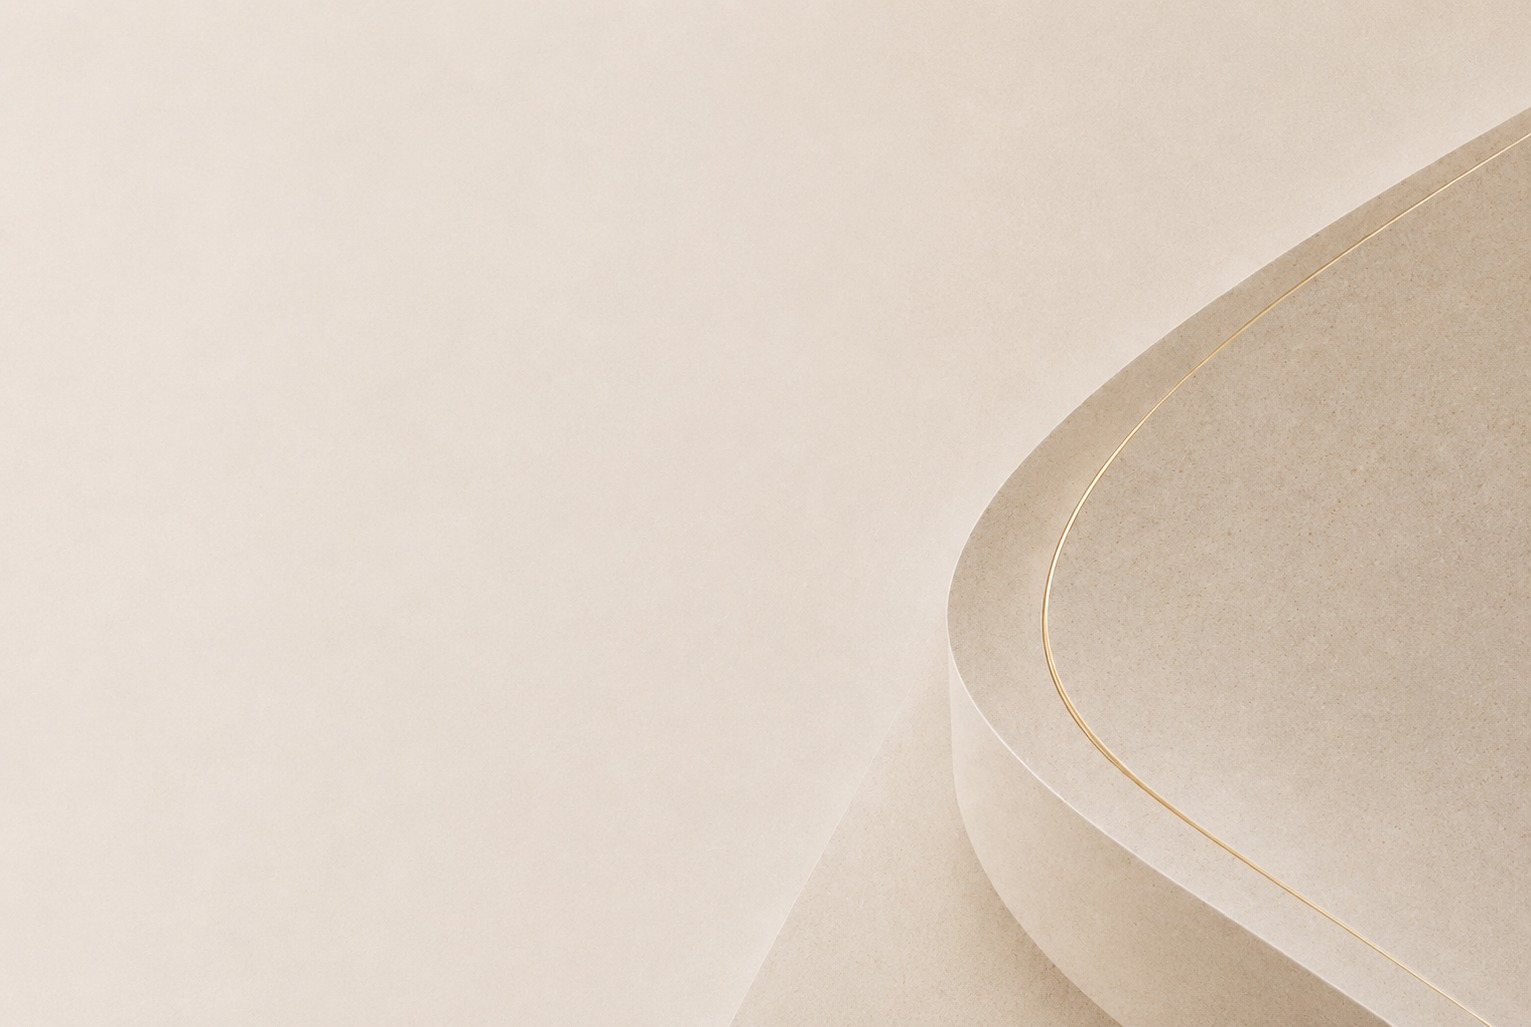
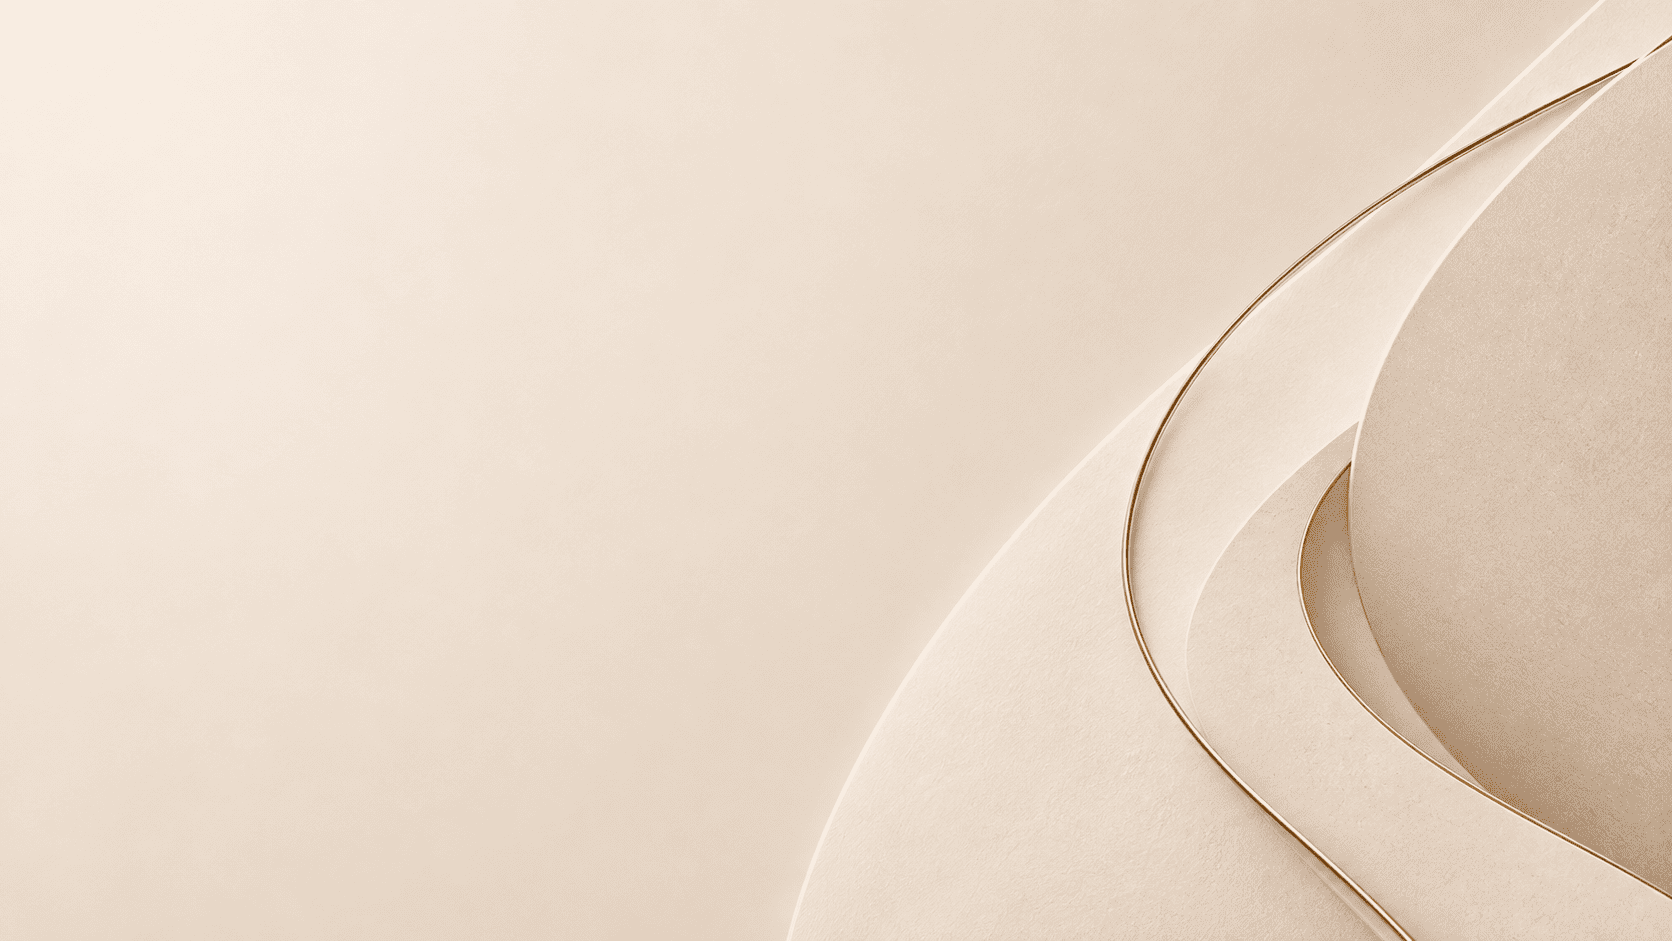
Add new edits addedg now for see more an ghero image of about us 16th itmeadmin update new something in header of book  a table and so many things

diff --git a/public/assets/frontend/css/style.css b/public/assets/frontend/css/style.css
@@ -23,22 +23,25 @@ a { text-decoration: none; color: inherit; }
 .page-transition-overlay { position: fixed; top: 0; left: 0; width: 100%; height: 100%; background-color: var(--bg-fallback); z-index: 9999; opacity: 1; visibility: visible; transition: opacity 0.4s ease-in-out, visibility 0.4s; pointer-events: none; }
 .page-transition-overlay.hidden { opacity: 0; visibility: hidden; }
 
-/* FIX: Page wrapper now just acts as the flex column structural container */
+/* Structural container */
 .page-wrapper { 
     min-height: 100vh; 
     display: flex; 
     flex-direction: column; 
 }
 
-/* FIX: New Hero Wrapper limits the image strictly to the top content, preventing blur/noise */
+/* FIX: High-quality rendering properties added to keep the zoomed background as sharp as the browser allows */
 .hero-wrapper {
     background-size: cover;
     background-position: center;
     background-repeat: no-repeat;
     display: flex;
     flex-direction: column;
-    flex-grow: 1; /* Pushes the status bar and footer down exactly like before */
+    flex-grow: 1; 
     width: 100%;
+    /* Forces browser to prioritize image quality when stretched/zoomed */
+    image-rendering: high-quality;
+    image-rendering: -webkit-optimize-contrast; 
 }
 
 .header { 
@@ -49,7 +52,6 @@ a { text-decoration: none; color: inherit; }
     z-index: 9998;
     transition: background-color 0.3s ease, box-shadow 0.3s ease;
 }
-/* Solid background applied via JS when scrolling to prevent text bleed */
 .header.scrolled {
     background-color: var(--bg-fallback);
     box-shadow: 0 4px 20px rgba(0,0,0,0.05);
@@ -61,16 +63,15 @@ a { text-decoration: none; color: inherit; }
     position: relative; 
     z-index: 2;
 }
-/* Fixed Overlay: Anchored strictly to the logo side, accommodating any monitor width */
 .nav-container::before {
     content: '';
     position: absolute;
-    top: -40px; /* Counteracts header top padding */
-    bottom: -40px; /* Counteracts header bottom padding */
-    left: -100vw; /* Bleeds infinitely to the left */
-    width: calc(100vw + 320px); /* Covers the left bleed + right up to the end of the logo */
+    top: -40px; 
+    bottom: -40px; 
+    left: -100vw; 
+    width: calc(100vw + 320px); 
     background: linear-gradient(90deg, rgba(232, 226, 213, 0.96) 0%, rgba(232, 226, 213, 0.96) calc(100% - 120px), rgba(232, 226, 213, 0) 100%);
-    z-index: -1; /* Keeps it strictly behind the navigation elements */
+    z-index: -1; 
     pointer-events: none;
 }
 .logo { position: relative; z-index: 10; }
@@ -101,7 +102,6 @@ h1 .gold-text { color: var(--gold); }
 .btn-primary { background-color: var(--gold); color: #ffffff; border: 1px solid var(--gold); }
 .btn-secondary { background-color: transparent; color: var(--text-dark); border: 1px solid var(--border-color); }
 
-/* --- STATS SECTION FIXES --- */
 .stats-bar { width: 100%; background-color: var(--bg-dark); margin-top: auto; }
 .stats-grid { display: grid; grid-template-columns: repeat(4, 1fr); padding: 40px 0; }
 .stat-item { padding: 0 15px; border-right: 1px solid var(--border-light); display: flex; flex-direction: column; justify-content: center; }
@@ -122,7 +122,7 @@ h1 .gold-text { color: var(--gold); }
     white-space: nowrap; 
 }
 .stat-text span.light { color: var(--text-white); display: inline; }
-/* -------------------------- */
+
 footer { background-color: transparent; color: var(--text-muted); padding: 80px 0 40px; }
 .footer-grid { display: grid; grid-template-columns: 1.3fr 1.7fr 1fr; gap: 60px; margin-bottom: 60px; }
 .footer-logo img { 
@@ -144,7 +144,6 @@ footer { background-color: transparent; color: var(--text-muted); padding: 80px 
 .footer-bottom { padding-top: 30px; display: flex; justify-content: space-between; font-size: 0.85rem; color: var(--text-muted); }
 .footer-bottom .dev-credit span { color: var(--gold); font-weight: 500; }
 
-/* --- RESPONSIVE MEDIA QUERIES --- */
 @media (max-width: 1200px) {
     h1 { font-size: 4.5rem; }
     .stats-grid { grid-template-columns: repeat(2, 1fr); gap: 40px 0; }
@@ -180,7 +179,6 @@ footer { background-color: transparent; color: var(--text-muted); padding: 80px 
 }
 
 @media (max-width: 768px) {
-    /* FIX: This shifts the background image to the right side specifically for mobile screens */
     .hero-wrapper {
         background-position: 85% center; 
     }
@@ -210,7 +208,6 @@ footer { background-color: transparent; color: var(--text-muted); padding: 80px 
 }
 
 @media (max-width: 480px) {
-    /* FIX: Ensures the background stays anchored to the right on the smallest mobile devices too */
     .hero-wrapper {
         background-position: 85% center; 
     }
@@ -226,29 +223,25 @@ footer { background-color: transparent; color: var(--text-muted); padding: 80px 
     .footer-logo p, .footer-links a, .footer-contact p, .footer-contact a { font-size: 0.75rem; }
 }
 
-/* Base disclaimer text setup (Mobile: 3 lines) */
 .disclaimer-text {
     display: -webkit-box;
     -webkit-box-orient: vertical;
     overflow: hidden;
-    -webkit-line-clamp: 3; /* Limits to 3 lines on mobile */
+    -webkit-line-clamp: 3; 
     line-clamp: 3;
     margin-bottom: 5px;
 }
-/* Desktop layout: 2 lines */
 @media (min-width: 768px) {
     .disclaimer-text {
-        -webkit-line-clamp: 2; /* Limits to 2 lines on desktop */
+        -webkit-line-clamp: 2; 
         line-clamp: 2;
     }
 }
-/* Expanded state (shows full text) */
 .disclaimer-text.expanded {
     -webkit-line-clamp: unset;
     line-clamp: unset;
     display: block;
 }
-/* See More Button Styling */
 .see-more-btn {
     background: transparent;
     border: none;
